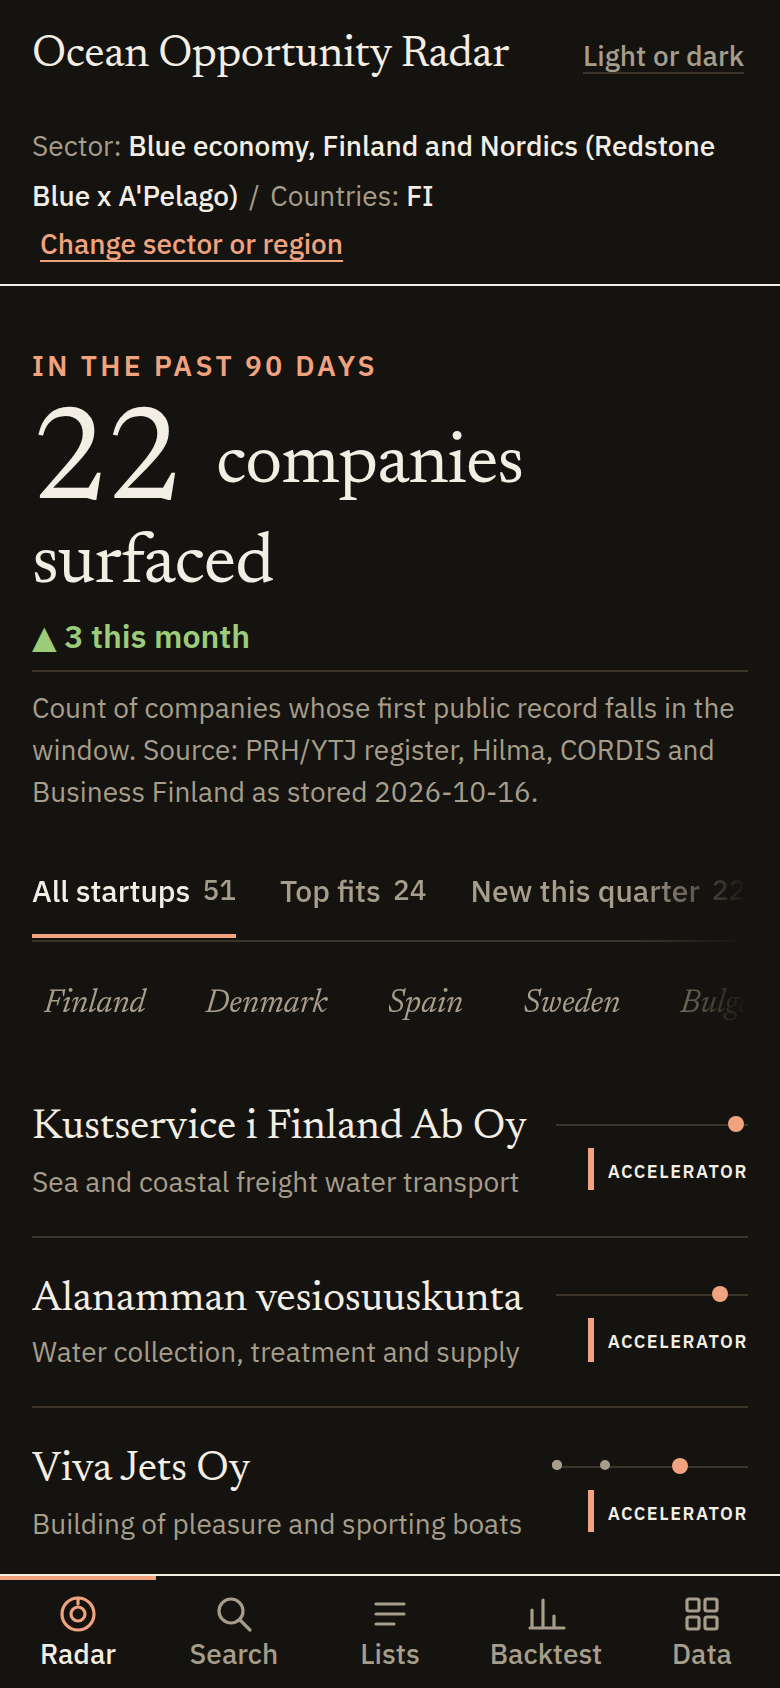
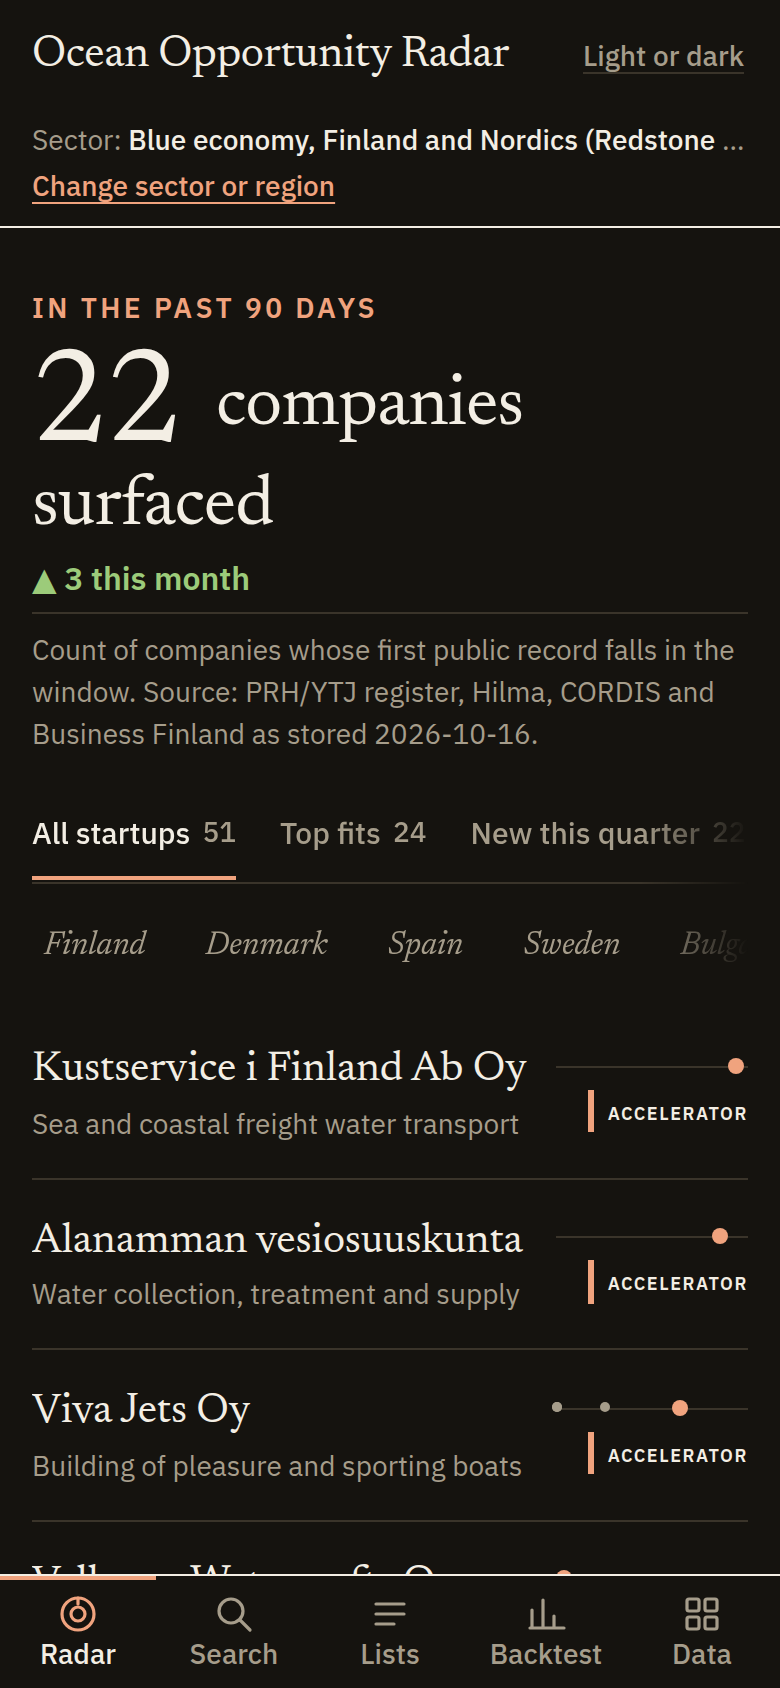
phase 5 push 3: the phone header's sector line is one line
On a phone the sector strip took three header lines; it is now one line (cut with an ellipsis, the full title
is in the selector it opens) plus the change link, so the home headline starts higher. docs/hero_phone.png re-shot.

STATUS: push 3 done; ease, visual-polish and component tests pass (full suite 589 passed, 1 skipped for reportlab, on the previous head); phase 5 open items: none; not blocked

Claude-Session: https://claude.ai/code/session_01Sm13WuUEQB1RGMh9q9ARSa

diff --git a/radar/static/site.css b/radar/static/site.css
@@ -119,3 +119,9 @@
 /* the tab bar is a <nav>, and app.css makes every nav a flex row; let its list take the full width so labels never clip */
 .c-tabbar ul { flex: 1 1 auto; width: 100%; }
 .foot-link { min-width: 44px; justify-content: center; }
+
+/* phones: the sector line is one line (cut with an ellipsis; the full title is in the selector it opens), then the change link */
+@media (max-width: 639px) {
+  :root[data-skin="editorial"] .thesis-now { display: block; white-space: nowrap; overflow: hidden; text-overflow: ellipsis; }
+  :root[data-skin="editorial"] .sector-change { margin-left: 0; }
+}
